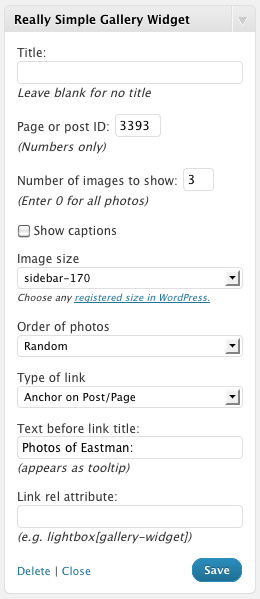
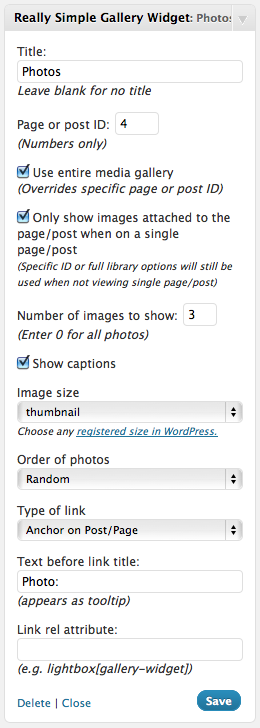
Trunk update for 1.1
git-svn-id: https://plugins.svn.wordpress.org/really-simple-gallery-widget/trunk@396911 b8457f37-d9ea-0310-8a92-e5e31aec5664

diff --git a/views/widget.php b/views/widget.php
@@ -1,77 +1,147 @@
 <?php
 
 echo $before_widget;
-    
+
 if ( !empty( $title ) ) { echo $before_title . $title . $after_title; }
 
-if ($post_id) {
+// initialize the images array
+$images = array();
 
-  $attachments = get_children( array('post_parent' => $post_id, 'post_status' => 'inherit', 'post_type' => 'attachment', 'post_mime_type' => 'image', 'order' => $order) );
+// on single post and option for images from single post on
+if ( $current_post_images == '1' && is_single() ) {
+	global $post;
+	$post_id = $post->ID;
+}
+
+// using full media library
+elseif ( $full_library == '1' ) {
+	// unset the post_id for the next if statement
+	unset($post_id);
+
+	$query_images_args = array(
+		'post_type' => 'attachment',
+		'post_mime_type' =>'image',
+		'post_status' => 'inherit',
+		'posts_per_page' => -1,
+		'order' => $order,
+	);
+	
+	// randomly ordered - no more shuffle_assoc!
+	if ($order == 'rand') {
+		$query_images_args['orderby'] = 'rand';
+	}
+	
+	// limited number of images
+	if ($num_images != 0) {
+		$query_images_args['posts_per_page'] = $num_images;
+	}
+	
+	$query_images = new WP_Query( $query_images_args );
+	
+	foreach ( $query_images->posts as $attachment) {
+	  $image = wp_get_attachment_image_src($attachment->ID, $image_size);
+	  $image['ID'] = $attachment->ID;
+	  $image['title'] = $attachment->post_title;
+	  $image['parent'] = $attachment->post_parent;
+	  $images[] = $image;
+	}
+}
+
+// using specific post ID or on single post/page
+if ($post_id) {
+	$query_images_args = array(
+		'post_parent' => $post_id,
+		'post_status' => 'inherit',
+		'post_type' => 'attachment',
+		'post_mime_type' => 'image',
+		'numberposts' => -1,
+		'order' => $order,
+	);
+	
+	// randomly ordered
+	if ($order == 'rand') {
+		$query_images_args['orderby'] = 'rand';
+	}
+	
+	// limited number of images
+	if ($num_images != 0) {
+		$query_images_args['numberposts'] = $num_images;
+	}
+
+  $attachments = get_children( $query_images_args );
   
   if ( !empty($attachments) ) {
-  
-  	if ($order == 'rand')
-  		$attachments = shuffle_assoc($attachments);
-  
-  	$output = "<div class='rsgallery'>";
-  	
-  	$i = 0;
-  	
-  	foreach ( $attachments as $id => $attachment ) {
+  	foreach( $attachments as $id => $attachment ) {
+  		$image = wp_get_attachment_image_src($id, $image_size);
+  		$image['ID'] = $id;
+  		$image['title'] = $attachment->post_title;
+  		$images[] = $image;
+		}
+	}
+}
+
+// there's stuff in the images array, hooray! let's output them images
+if ( !empty($images) ) {
+
+	$output = "<div class='rsgallery'>";
+
+	foreach( $images as $image ) {
+		if ($before_link_title != '')
+			$link_title = "$before_link_title $image[title]";
+		else
+			$link_title = $image['title'];
 		
-			if ($num_images != 0 && $i >= $num_images)
-				break;
-			
-  		//$link = wp_get_attachment_link($id, 'thumbnail', false, false);
+		$image_output = '<img src="' . $image[0] . '" alt="' . $link_title . '" title="' . $link_title . '" width="'.$image[1].'" height="'.$image[2].'" class="rsg_image" />';
+		$link_output = '';
+		
+		$id = $image['ID'];
+		
+		// stupid int(0)
+		if ( $image['parent'] || $image['parent'] === 0 )
+			$post_id = $image['parent'];
 
-			$thumb = wp_get_attachment_image_src($id, $image_size);
+		// no post parent - set this one to use a file link if links are being used
+		// perhaps add an option for attachment later
+		if ( $post_id == '0' ) {
+			$temp_link_type = 'file';
+		}
+		
+		if ( $link_type != 'none' ) {
+		
+			if ( $link_type == 'file' || $temp_link_type == 'file' )
+				$link_url = wp_get_attachment_url($id);
+			elseif ( $link_type == 'post' )
+				$link_url = get_permalink($post_id);
+			elseif ( $link_type == 'anchor' )
+				$link_url = get_permalink($post_id)."#attachment_$id";
+			elseif ($link_type == 'attachment')
+				$link_url = get_attachment_link($id);
+	
+			$link_output .= "<a href='$link_url'";
 			
-			if ($before_link_title != '')
-				$link_title = "$before_link_title $attachment->post_title";
-			else
-				$link_title = $attachment->post_title;
+			if ($link_rel != '')
+				$link_output .= " rel='$link_rel'";
 			
-			$image_output = '<img src="' . $thumb[0] . '" alt="' . $link_title . '" title="' . $link_title . '" width="'.$thumb[1].'" height="'.$thumb[2].'" class="rsg_image" />';
-			$link_output = '';
-			
-			if ($link_type != 'none') {
-			
-  			if ($link_type == 'file')
-  				$link_url = wp_get_attachment_url($id);
-  			elseif ($link_type == 'post')
-  				$link_url = get_permalink($post_id);
-  			elseif ($link_type == 'anchor')
-  				$link_url = get_permalink($post_id)."#attachment_$id";
-  			elseif ($link_type == 'attachment')
-  				$link_url = get_attachment_link($id);
-
-  			$link_output .= "<a href='$link_url'";
-  			
-  			if ($link_rel != '')
-  				$link_output .= "rel='$link_rel'";
-  			
-  			$link_output .= "title='$link_title'>$image_output</a>";
-    	}
-    	else
-    		$link_output = $image_output;
-    	
-    	$output .= $link_output;
-    	
-    	if ($show_captions == '1') {
-    		$caption = $attachment->post_excerpt;
-    		$output .= "<span class='rsg_caption'>$caption</span>";
-    	}
-  		
-  		$i++;
-  	} 
-
-  	$output .= "
-  	</div>\n";
-
-  	echo $output;
-  } // !empty($attachments)
-
-}    
+			$link_output .= " title='$link_title'>$image_output</a>";
+		}
+		else
+			$link_output = $image_output;
+		
+		$output .= $link_output;
+		
+		if ($show_captions == '1') {
+			$caption = $attachment->post_excerpt;
+			$output .= "<span class='rsg_caption'>$caption</span>";
+		}
+		
+		//$i++;
+	} 
+	
+	$output .= "
+	</div>\n";
+	
+	echo $output;
+} // !empty($images)
 
 echo $after_widget;
 ?>

diff --git a/really-simple-gallery-widget.php b/really-simple-gallery-widget.php
@@ -2,8 +2,8 @@
 /*
 Plugin Name: Really Simple Gallery Widget
 Plugin URI: http://www.helenhousandi.com/wordpress/plugins/really-simple-gallery-widget/
-Description: Widget to display a images attached to a specific page or post. Includes options for number of images, display order (including true random), any registered image size, caption toggling, type of link, rel attribute, and link title prefix.
-Version: 1.0
+Description: Widget to display images attached to a specific page/post or from the entire media library. Includes options for number of images, display order (including true random), any registered image size, caption toggling, type of link, rel attribute, and link title prefix. Can also show images attached to the page/post currently being viewed.
+Version: 1.1
 Author: Helen Hou-Sandi
 Author URI: http://www.helenhousandi.com
 */
@@ -18,7 +18,7 @@ if ( !function_exists('shuffle_assoc') ) {
 	  $random = array();
 	  foreach ($keys as $key)
 	    $random[$key] = $list[$key];
-	
+
 	  return $random;
 	}
 }
@@ -27,32 +27,36 @@ if ( !class_exists('RSGWidget') ) {
 	class RSGWidget extends WP_Widget {
 	
 	  function RSGWidget() {
-	    $widget_ops = array('classname' => 'widget_rsg', 'description' => __('Grab photos from a specified post or page and display them in a widget area.'));
+	    $widget_ops = array('classname' => 'widget_rsg', 'description' => __('Grab photos from a specified post/page or the entire media library and display them in a widget area.'));
 	    $this->WP_Widget('RSGWidget', __('Really Simple Gallery Widget'), $widget_ops);
 	  }
 		
 	  function widget( $args, $instance ) {
 	    extract($args);
-	    $title = apply_filters('widget_title', empty($instance['title']) ? '' : $instance['title'], $instance);
+	    $title = apply_filters('widget_title', empty($instance['title']) ? '' : esc_html($instance['title']), $instance);
 	    $post_id = $instance['post_id'];
+	    $full_library = $instance['full_library'] ? '1' : '0';
+	    $current_post_images = $instance['current_post_images'] ? '1' : '0';
 	    $num_images = $instance['num_images'];
 	    $show_captions = $instance['show_captions'] ? '1' : '0';
 	    $image_size = $instance['image_size'];
 	    $order = $instance['order'];
 	    $link_type = $instance['link_type'];
-	    $before_link_title = strip_tags($instance['before_link_title']);
-	    $link_rel = strip_tags($instance['link_rel']);
+	    $before_link_title = esc_attr( strip_tags($instance['before_link_title']) );
+	    $link_rel = esc_attr( strip_tags($instance['link_rel']) );
 	    
 	    include('views/widget.php');
 	  }
 	  
 	  function update( $new_instance, $old_instance ) {
 			$instance = $old_instance;
-			$instance['title'] = strip_tags($new_instance['title']);
+			$instance['title'] = esc_html( strip_tags($new_instance['title']) );
 			if ( !ctype_digit($new_instance['post_id']) )
 			  $instance['post_id'] =  '';
 			else
 			  $instance['post_id'] = intval($new_instance['post_id']);
+			$instance['full_library'] = $new_instance['full_library'] ? 1 : 0;
+			$instance['current_post_images'] = $new_instance['current_post_images'] ? 1 : 0;
 		  if ( !ctype_digit($new_instance['num_images']) )
 		    $instance['num_images'] =  '0';
 		  else
@@ -61,8 +65,8 @@ if ( !class_exists('RSGWidget') ) {
 			$instance['image_size'] = $new_instance['image_size'];
 			$instance['order'] = $new_instance['order'];
 			$instance['link_type'] = $new_instance['link_type'];
-			$instance['before_link_title'] = strip_tags($new_instance['before_link_title']);
-			$instance['link_rel'] = strip_tags($new_instance['link_rel']);
+			$instance['before_link_title'] = esc_attr( strip_tags($new_instance['before_link_title']) );
+			$instance['link_rel'] = esc_attr( strip_tags($new_instance['link_rel']) );
 			return $instance;
 	  }
 	

diff --git a/views/form.php b/views/form.php
@@ -6,13 +6,15 @@ $image_size_options = get_intermediate_image_sizes();
 $instance = wp_parse_args( (array) $instance, array( 'title' => '', 'post_id' => '', 'num_images' => '0', 'image_size' => 'thumbnail', 'order' => 'rand', 'link_type' => 'file', 'before_title' => '', 'link_rel' => '' ) );
 $title = strip_tags($instance['title']);
 $post_id = $instance['post_id'];
+$full_library = $instance['full_library'] ? 'checked="checked"' : '';
+$current_post_images = $instance['current_post_images'] ? 'checked="checked"' : '';
 $num_images = $instance['num_images'];
 $show_captions = $instance['show_captions'] ? 'checked="checked"' : '';
 $image_size = $instance['image_size'];
 $order = $instance['order'];
 $link_type = $instance['link_type'];
-$before_link_title = strip_tags($instance['before_link_title']);
-$link_rel = strip_tags($instance['link_rel']);
+$before_link_title = esc_attr( strip_tags($instance['before_link_title']) );
+$link_rel = esc_attr( strip_tags($instance['link_rel']) );
 ?>
 <p><label for="<?php echo $this->get_field_id('title'); ?>"><?php _e('Title:'); ?></label>
 <input class="widefat" id="<?php echo $this->get_field_id('title'); ?>" name="<?php echo $this->get_field_name('title'); ?>" type="text" value="<?php echo esc_attr($title); ?>" />
@@ -22,6 +24,14 @@ $link_rel = strip_tags($instance['link_rel']);
 <p><label for="<?php echo $this->get_field_id('post_id'); ?>"><?php _e('Page or post ID:'); ?></label>
 <input id="<?php echo $this->get_field_id('post_id'); ?>" name="<?php echo $this->get_field_name('post_id'); ?>" type="text" size="3" value="<?php echo $post_id; ?>" /><br />
 <em>(Numbers only)</em></p>
+
+<p><input class="checkbox" type="checkbox" <?php echo $full_library; ?> id="<?php echo $this->get_field_id('full_library'); ?>" name="<?php echo $this->get_field_name('full_library'); ?>" />
+<label for="<?php echo $this->get_field_id('full_library'); ?>"><?php _e('Use entire media gallery'); ?><br />
+<em><?php _e('(Overrides specific page or post ID)'); ?></em></label></p>
+
+<p><input class="checkbox" type="checkbox" <?php echo $current_post_images; ?> id="<?php echo $this->get_field_id('current_post_images'); ?>" name="<?php echo $this->get_field_name('current_post_images'); ?>" />
+<label for="<?php echo $this->get_field_id('current_post_images'); ?>"><?php _e('Only show images attached to the page/post when on a single page/post'); ?><br />
+<small><em><?php _e('(Specific ID or full library options will still be used when not viewing single page/post)'); ?></em></small></label></p>
 
 <p><label for="<?php echo $this->get_field_id('num_images'); ?>"><?php _e('Number of images to show:'); ?></label>
 <input id="<?php echo $this->get_field_id('num_images'); ?>" name="<?php echo $this->get_field_name('num_images'); ?>" type="text" size="1" value="<?php echo $num_images; ?>" /><br />
